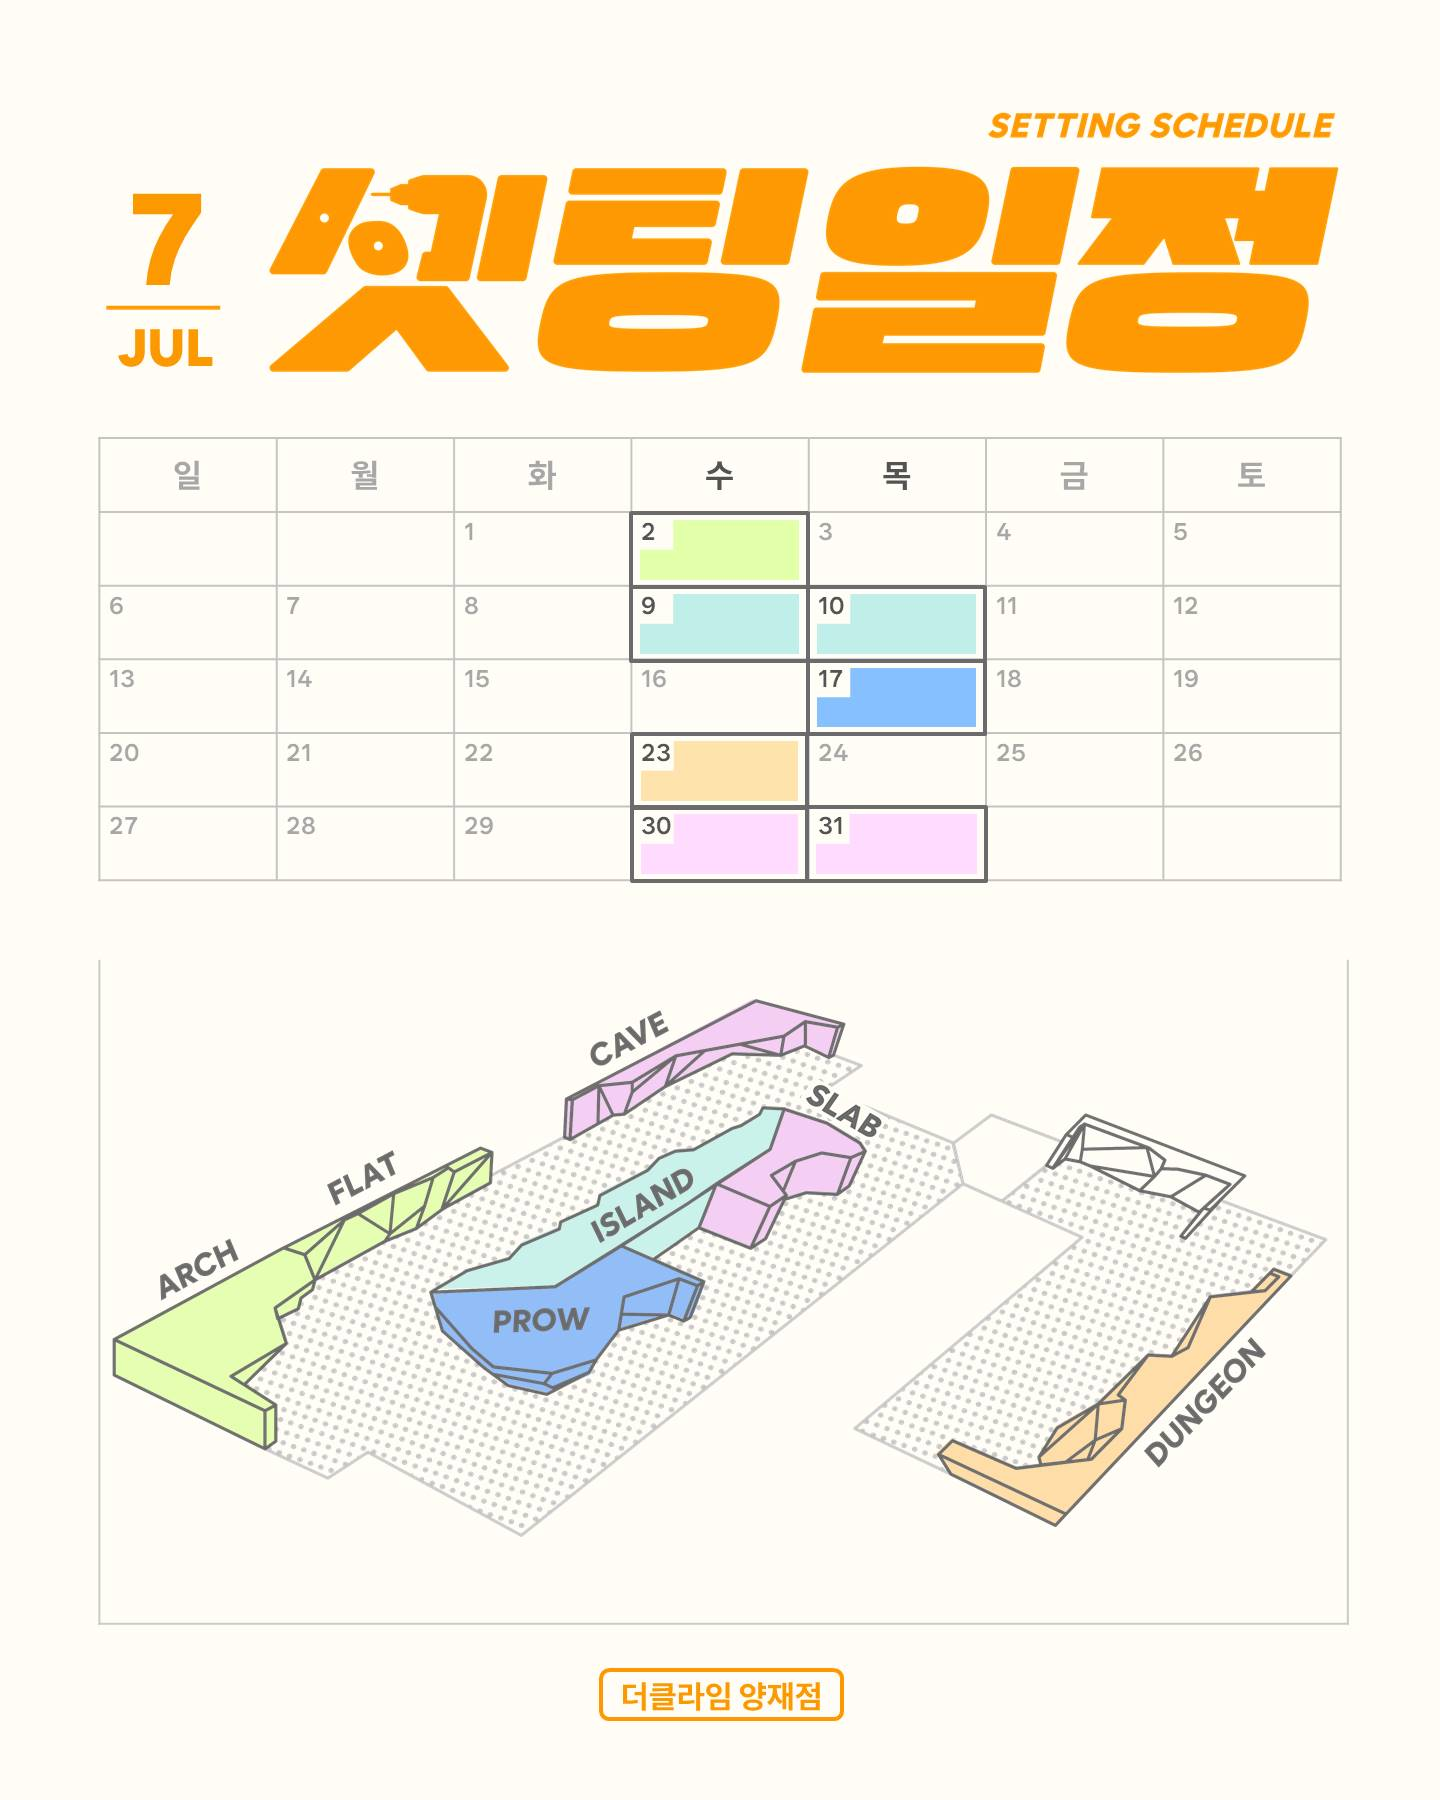
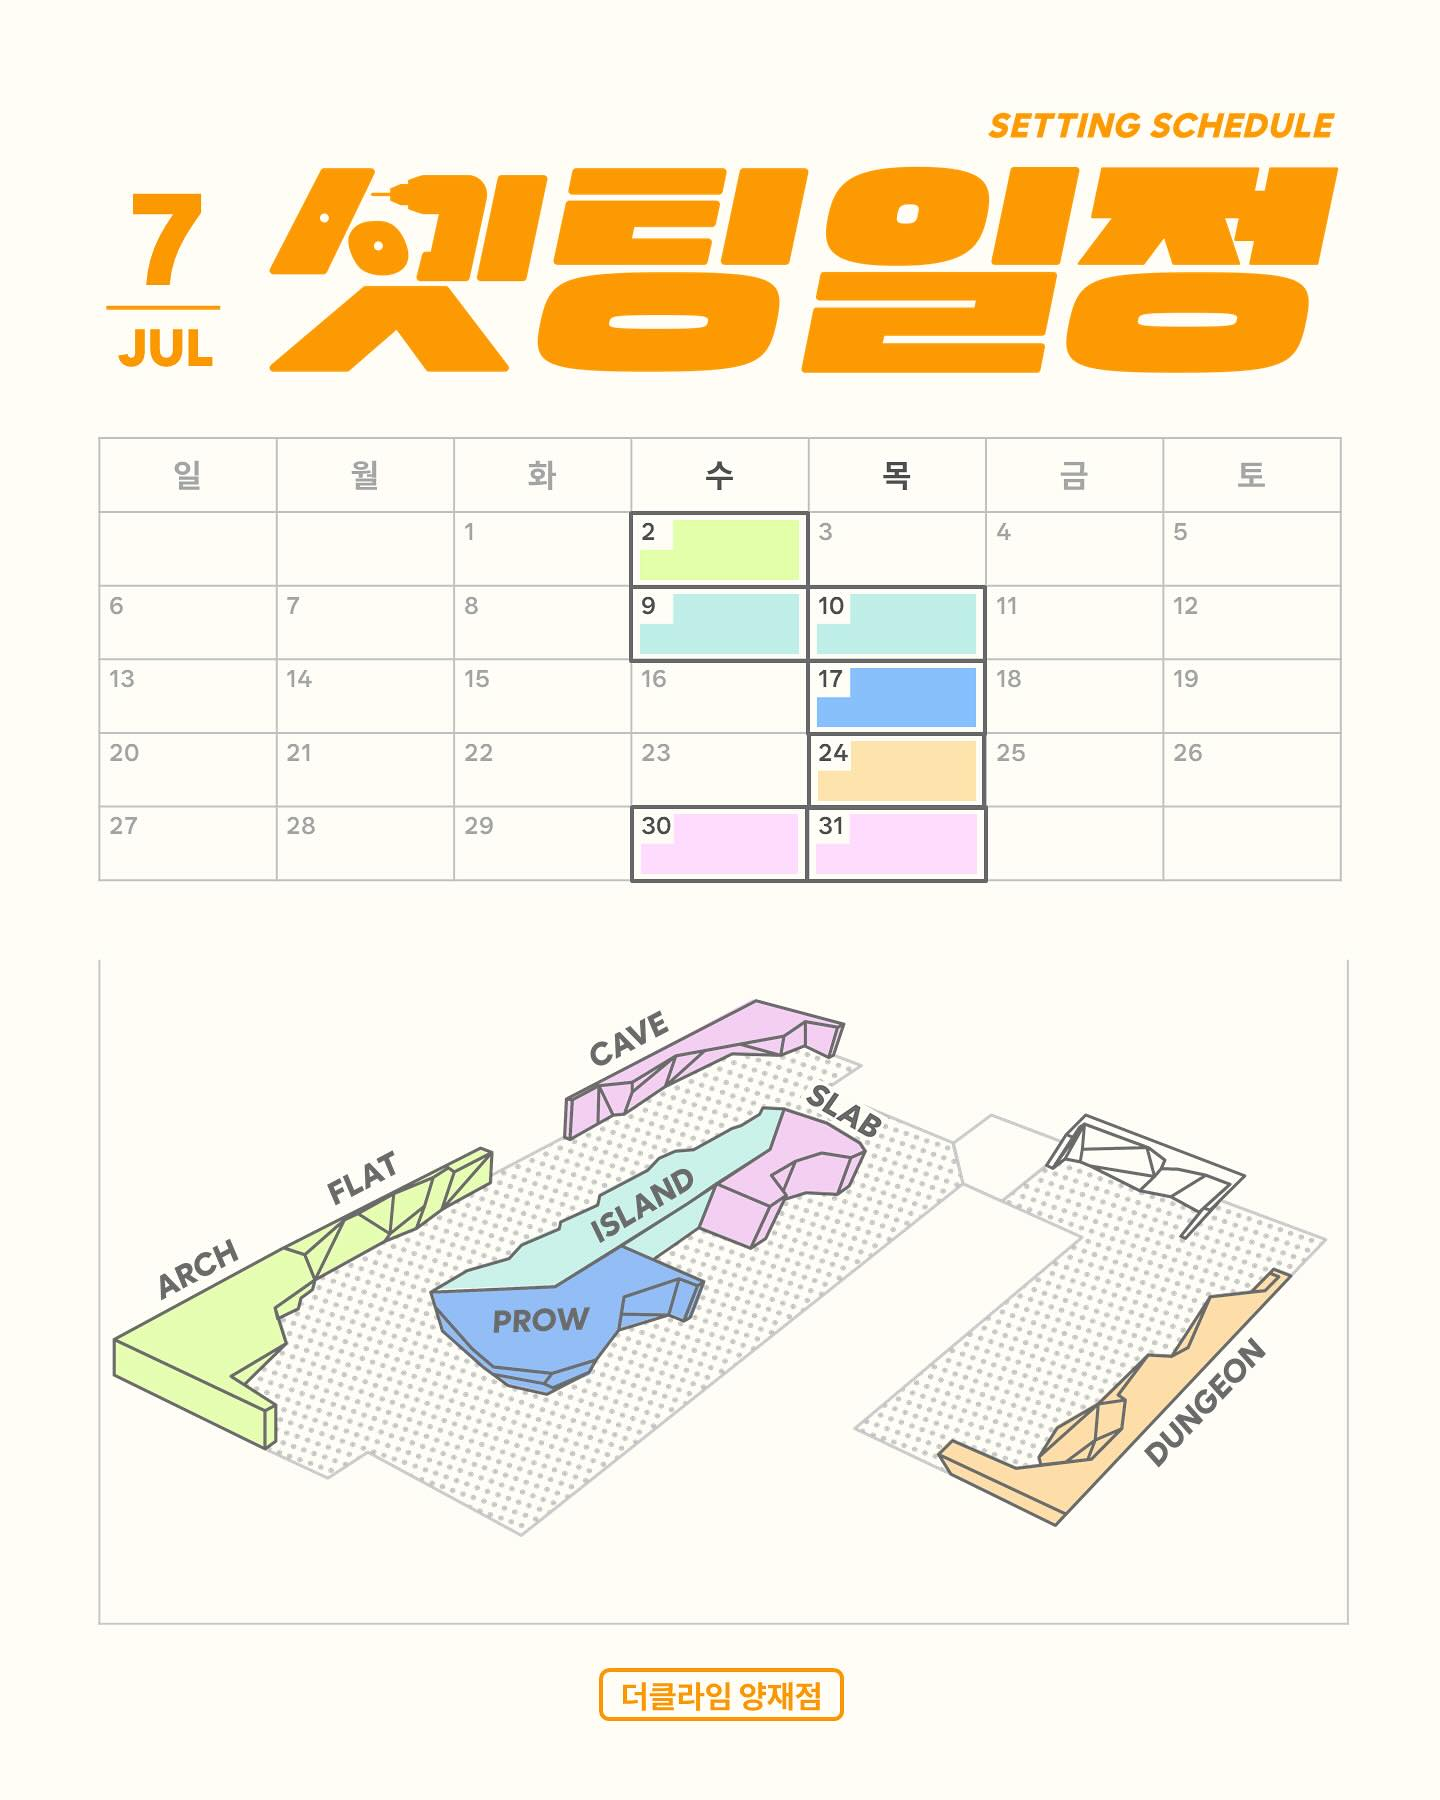
fix: update schedules:

Changed region(s): [[0.4375, 0.4044, 0.6875, 0.4667]]

diff --git a/src/components/main/index.tsx b/src/components/main/index.tsx
@@ -110,16 +110,16 @@ function Main() {
   //     })
   // }, [])
 
-  // useEffect(() => {
-  //   fetch('/api/download/schedule')
-  //     .then((res) => res.json())
-  //     .then((data) => {
-  //       console.log(data)
-  //     })
-  //     .catch((err) => {
-  //       console.error(err)
-  //     })
-  // }, [])
+  useEffect(() => {
+    fetch('/api/download/schedule')
+      .then((res) => res.json())
+      .then((data) => {
+        console.log(data)
+      })
+      .catch((err) => {
+        console.error(err)
+      })
+  }, [])
 
   // useEffect(() => {
   //   fetch('/api/gpt')
